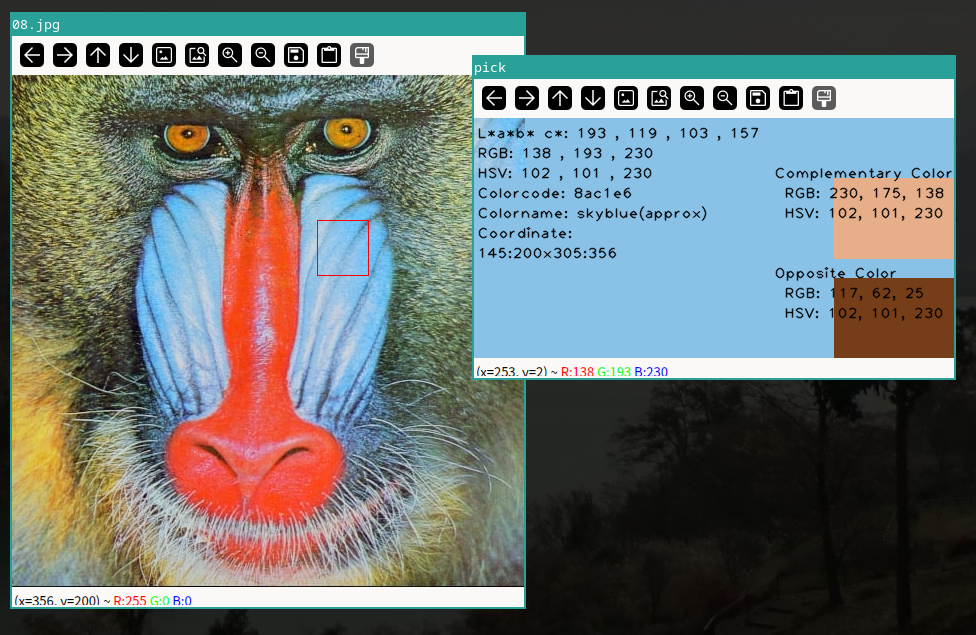
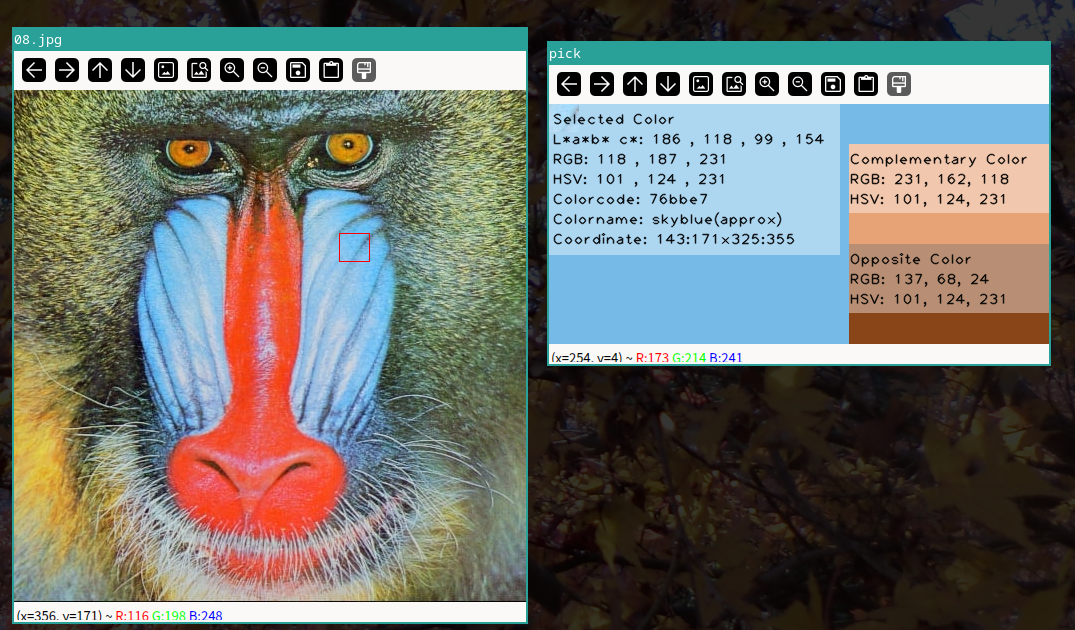
Add text background(overlay)

diff --git a/color_picker.py b/color_picker.py
@@ -44,6 +44,7 @@ def get_color_info_text(
     L_ast, a_ast, b_ast, c_ast, r, g, b, h, s, v, color_name, iy, y, ix, x
 ):
     return [
+        f"Selected Color",
         f"L*a*b* c*: {L_ast} , {a_ast} , {b_ast} , {c_ast}",
         f"RGB: {r} , {g} , {b}",
         f"HSV: {h} , {s} , {v}",
@@ -60,6 +61,19 @@ def calculate_complementary_and_opposite(r, g, b):
     return c_rgb, r_rgb
 
 
+def recimg_overlay(rec_img, rec_pt1, rec_pt2):
+    overlay = rec_img.copy()
+    cv2.rectangle(
+        overlay,
+        pt1=rec_pt1,
+        pt2=rec_pt2,
+        color=(255, 255, 255),
+        thickness=-1,
+    )
+    mat_img = cv2.addWeighted(overlay, 0.4, rec_img, 0.6, 0)
+    return mat_img.copy()
+
+
 def show_pick_window(rec_img, x, y):
     L_ast, a_ast, b_ast = calculate_average_color(rec_img, cv2.COLOR_BGR2Lab)
     c_ast = int(np.sqrt(a_ast**2 + b_ast**2))
@@ -71,50 +85,57 @@ def show_pick_window(rec_img, x, y):
 
     height, width = rec_img.shape[:2]
     pick_height = max(240, int(height * 1.2))
-    pick_width = max(480, int(width * 1.2))
+    pick_width = max(500, int(width * 1.2))
     pick = np.full((pick_height, pick_width, 3), (b, g, r), dtype=np.uint8)
     pick[0:height, 0:width] = rec_img
 
     color_info = get_color_info_text(
         L_ast, a_ast, b_ast, c_ast, r, g, b, h, s, v, color_name, iy, y, ix, x
     )
+    pick = recimg_overlay(pick, (0, 0), (290, 150))
+
     positions = [(3, i) for i in range(20, 141, 20)]
     for text, pos in zip(color_info, positions):
         draw_text(pick, text, pos)
 
-    rec_pos_x = pick_width - 120
-    rec_pos_x_str = rec_pos_x - 60
+    rec_pos_x = pick_width - 200
     rec_pos_y = pick_height - 180
 
     cv2.rectangle(
         pick,
-        pt1=(rec_pos_x, rec_pos_y),
+        pt1=(rec_pos_x, rec_pos_y - 20),
         pt2=(pick_width, rec_pos_y + 80),
         color=c_rgb[::-1],
         thickness=-1,
     )
-    draw_text(pick, "Complementary Color", (rec_pos_x_str, rec_pos_y))
+    pick = recimg_overlay(
+        pick, (rec_pos_x, rec_pos_y - 20), (pick_width, rec_pos_y + 48)
+    )
+    draw_text(pick, "Complementary Color", (rec_pos_x, rec_pos_y))
     draw_text(
         pick,
         f"RGB: {c_rgb[0]}, {c_rgb[1]}, {c_rgb[2]}",
-        (rec_pos_x_str, rec_pos_y + 20),
+        (rec_pos_x, rec_pos_y + 20),
     )
-    draw_text(pick, f"HSV: {h}, {s}, {v}", (rec_pos_x_str, rec_pos_y + 40))
+    draw_text(pick, f"HSV: {h}, {s}, {v}", (rec_pos_x, rec_pos_y + 40))
 
     cv2.rectangle(
         pick,
-        pt1=(rec_pos_x, rec_pos_y + 100),
+        pt1=(rec_pos_x, rec_pos_y + 80),
         pt2=(pick_width, pick_height),
         color=r_rgb[::-1],
         thickness=-1,
     )
-    draw_text(pick, "Opposite Color", (rec_pos_x_str, rec_pos_y + 100))
+    pick = recimg_overlay(
+        pick, (rec_pos_x, rec_pos_y + 80), (pick_width, rec_pos_y + 148)
+    )
+    draw_text(pick, "Opposite Color", (rec_pos_x, rec_pos_y + 100))
     draw_text(
         pick,
         f"RGB: {r_rgb[0]}, {r_rgb[1]}, {r_rgb[2]}",
-        (rec_pos_x_str, rec_pos_y + 120),
+        (rec_pos_x, rec_pos_y + 120),
     )
-    draw_text(pick, f"HSV: {h}, {s}, {v}", (rec_pos_x_str, rec_pos_y + 140))
+    draw_text(pick, f"HSV: {h}, {s}, {v}", (rec_pos_x, rec_pos_y + 140))
 
     cv2.imshow("pick", pick)
     view_img = img.copy()
@@ -128,7 +149,6 @@ def printColor(event, x, y, flags, param):
         drawing = False
         rec_img = img.copy()
         show_pick_window(rec_img, ix, iy)
-
     elif event == cv2.EVENT_LBUTTONDOWN and flags & cv2.EVENT_FLAG_SHIFTKEY:
         drawing = True
         ix, iy = x, y
